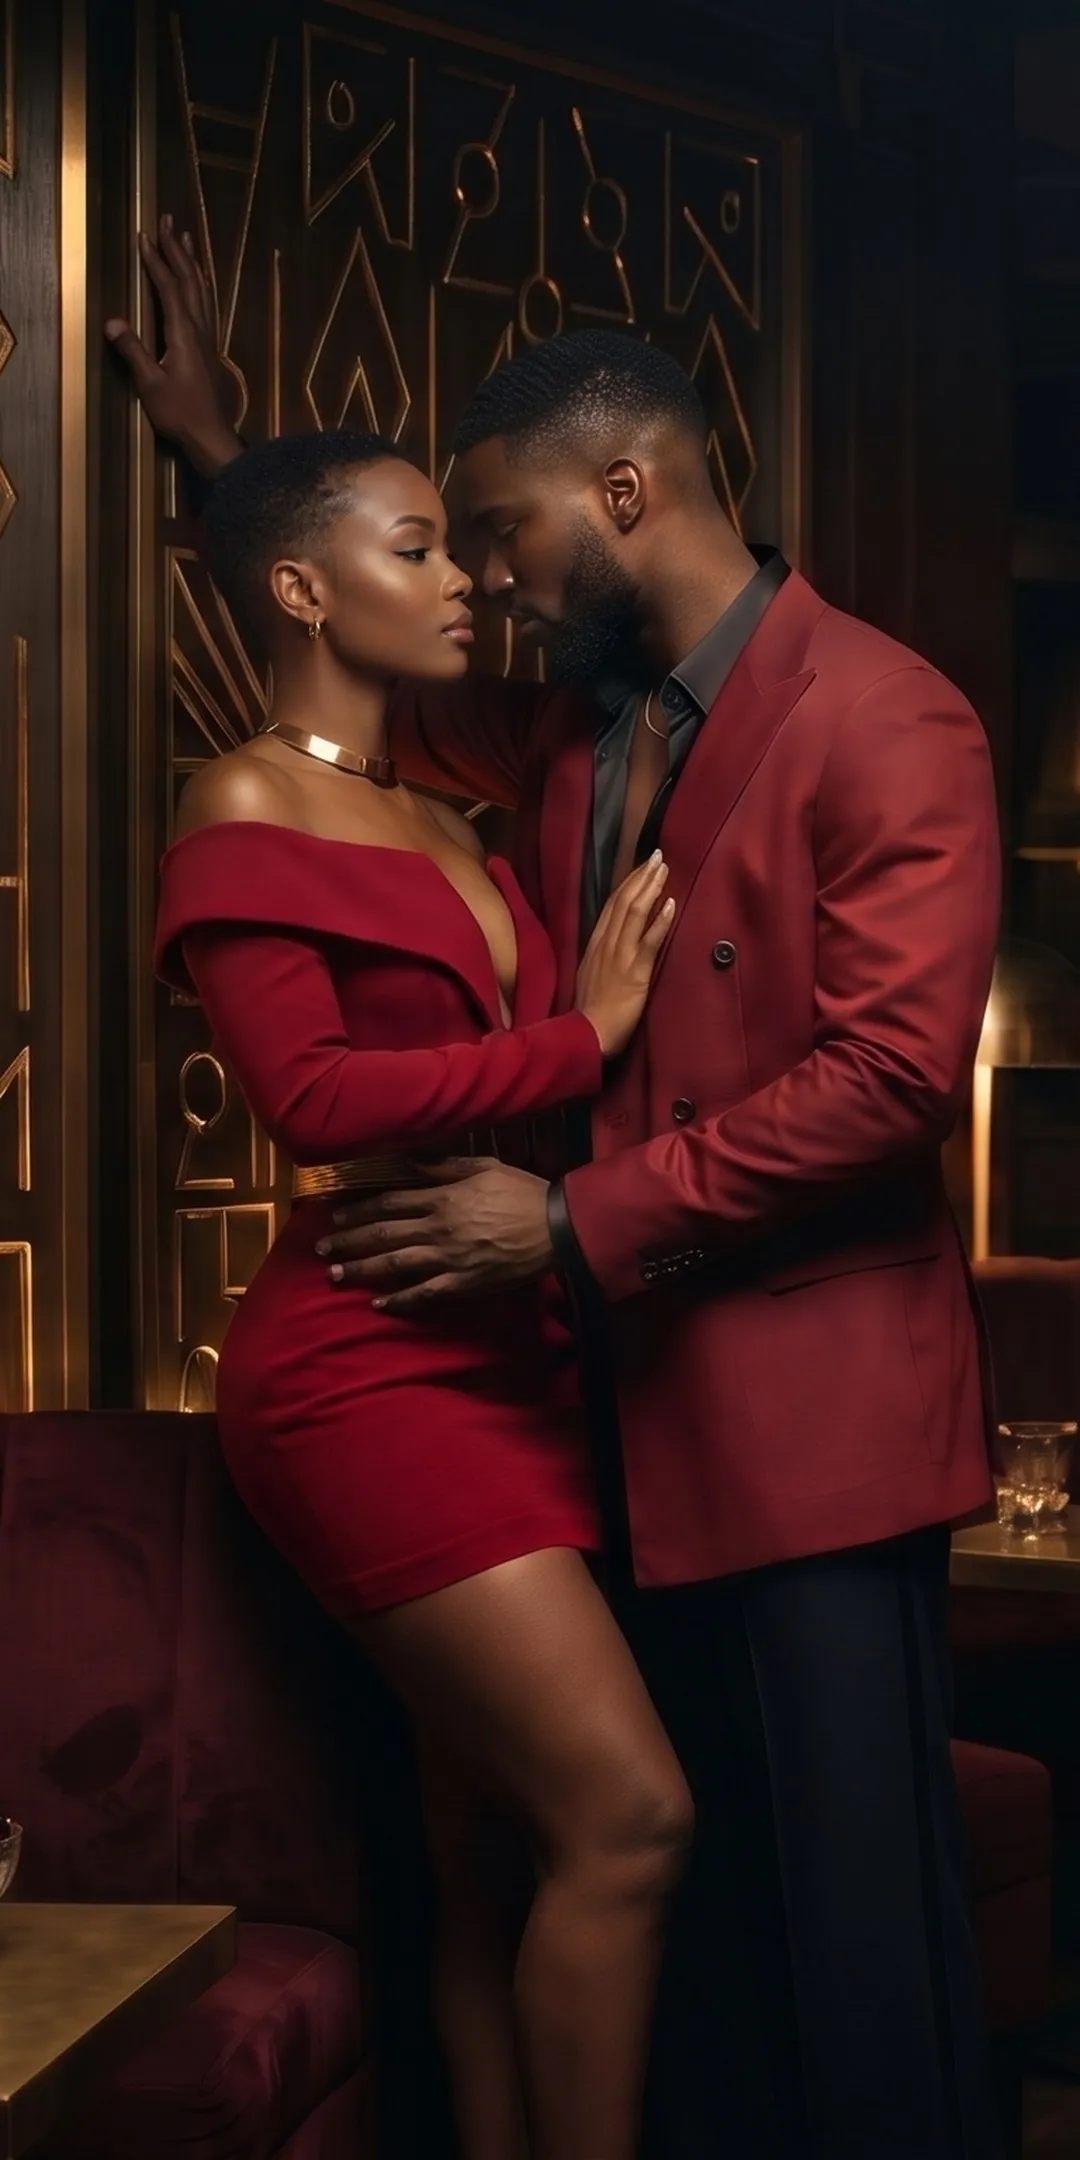
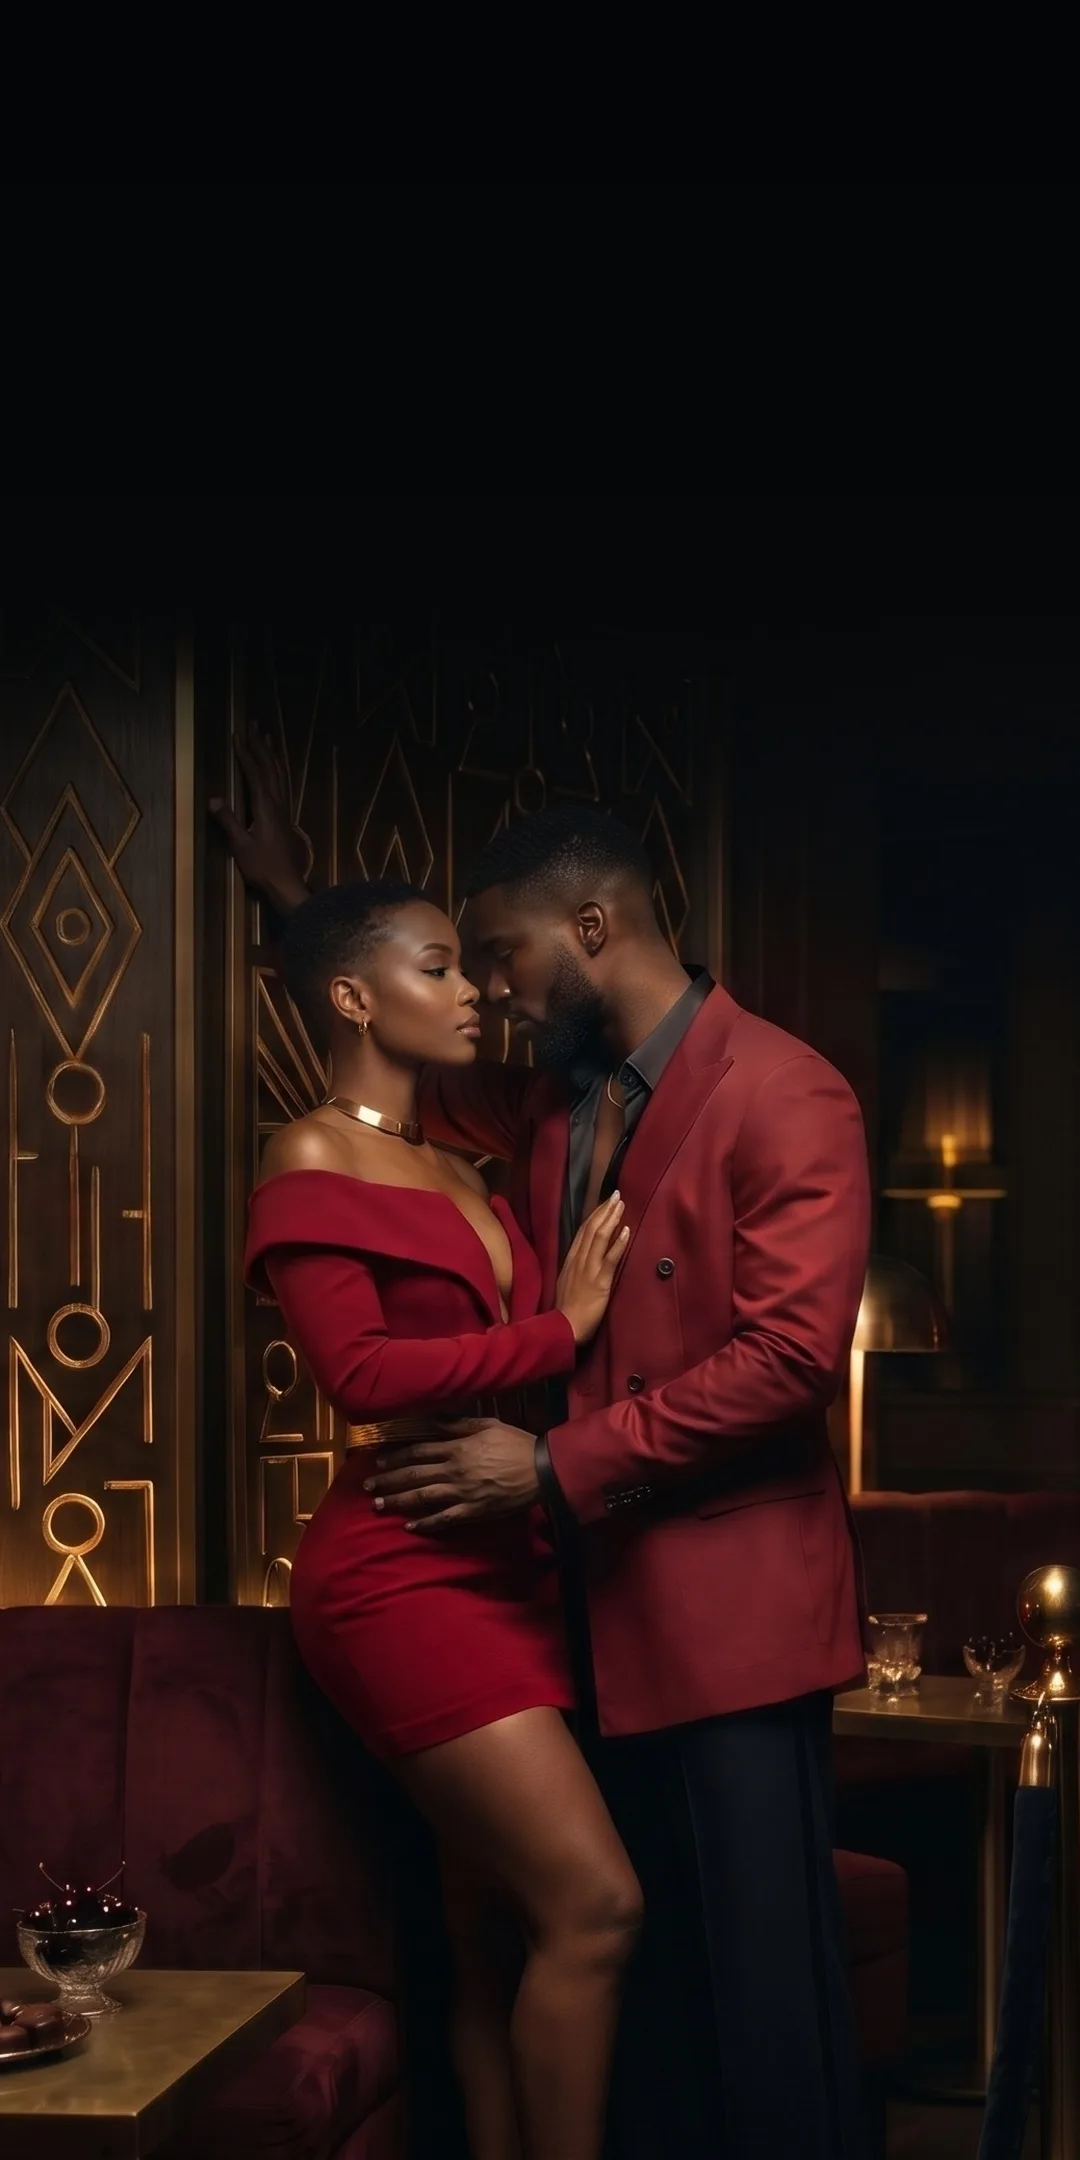
Ruby Oba phone: tall slice of the lounge with the dark ceiling above, heads anchored just under the bottle

diff --git a/index.html b/index.html
@@ -428,10 +428,10 @@ var BL = [
    nameStyle:{fill:["#F3DC9A","#D9AE52","#9C7225"], op:0.92, glow:"rgba(0,0,0,.55)", blur:18, shade:0.5, shadeTo:0.4, shadeRGB:"30,4,10"},
    // scene (TJ, 21 Nov): ENZIWA VIP lounge, the couple against the glowing gold pattern screen on the left, red dance floor far right.
    // Whole photo as one layer; the front layer is empty. Sources: scene/ruby-oba-scene*.jpg (Gemini, free).
-   // The tall picture is a cut from the wide one for now; it has no headroom, so it is centred, not anchored to the bottle.
+   // The tall picture is a slice of the wide one with the dark ceiling above; head: the man's head top, 36 percent down.
    // The wide picture has a dark ceiling added above the photo (TJ, 21 Nov) so headW can drop the couple below the name.
    layers:{wide:{w:2048,h:1545,headW:0.36,sky:"img/scenes/ruby-oba-sky.webp?v=lounge2",fg:"img/scenes/empty-fg.webp"},
-           tall:{w:1080,h:2160,sky:"img/scenes/ruby-oba-sky-tall.webp?v=lounge",fg:"img/scenes/empty-fg.webp"}}},
+           tall:{w:1080,h:2160,head:0.36,sky:"img/scenes/ruby-oba-sky-tall.webp?v=lounge2",fg:"img/scenes/empty-fg.webp"}}},
   {n:31,name:"Oud Panga",top:["Strawberry","Candied pear","Marshmallow"],heart:["Caramel","Jasmine"],base:["Oud","Sandalwood","Vanilla","Sugar"],
    desc:"Sweet candy over soft oud and sandalwood. Evening and date night, unisex. Strong projection and powerful staying power. Like sugared fruit laid out on a warm sandalwood table.",
    col:["#d98a7a","#c0745c","#8a5640"], sc:["#d9894a","#a8452a","#5c1f14"], seal:{wide:[0.5,0.76], tall:[0.5,0.6]},
